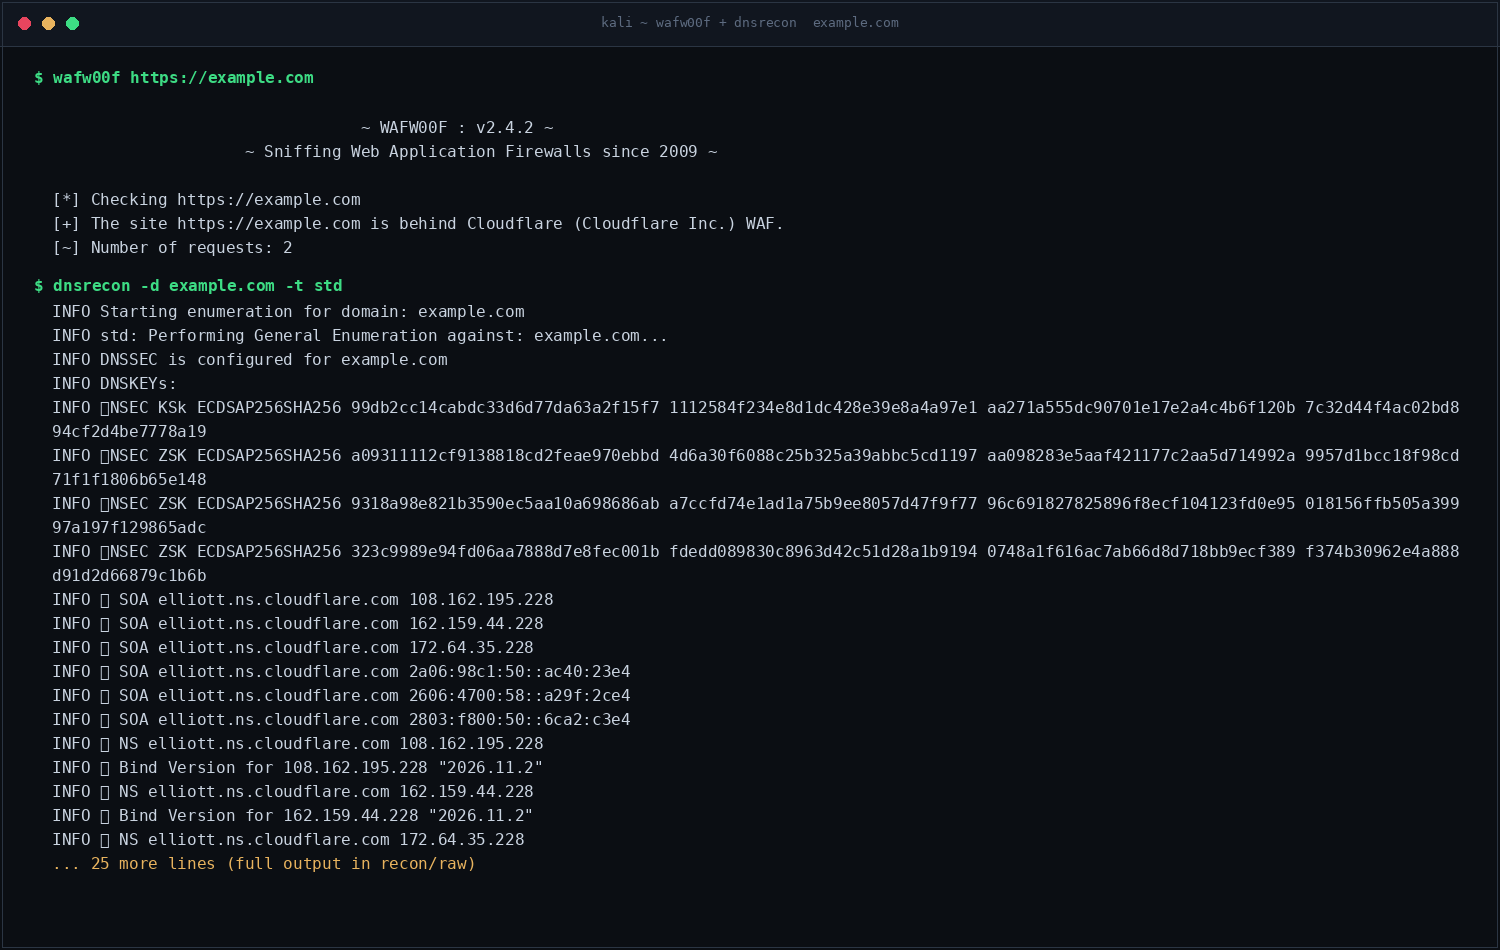
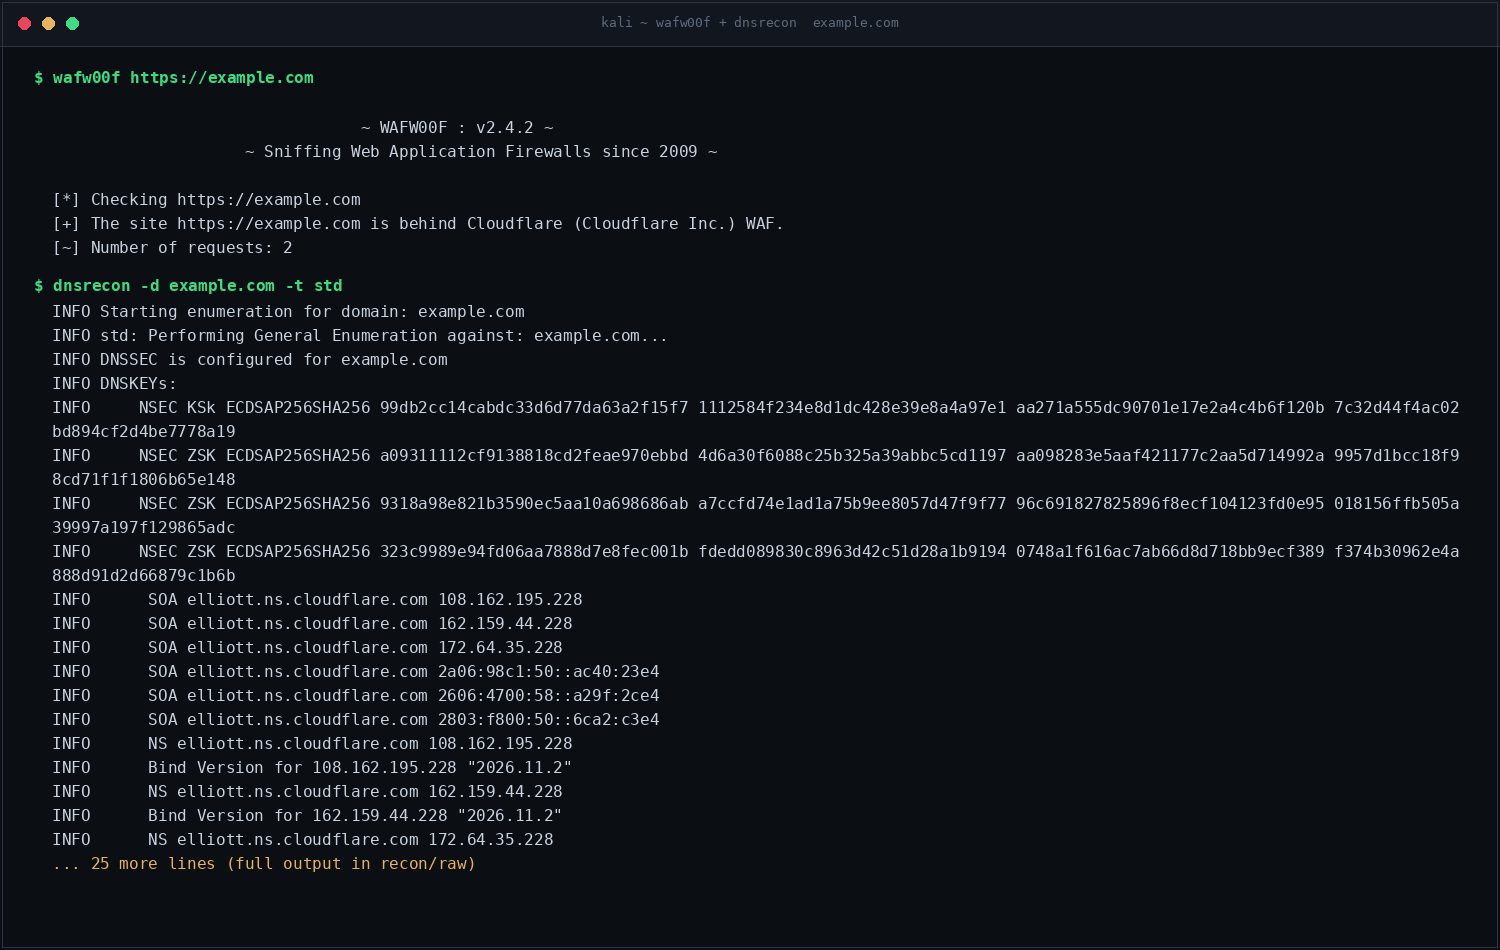
Render tabs as spaces in the evidence screenshots

Changed region(s): [[0.0307, 0.4274, 0.9813, 0.8853]]

diff --git a/tools/render_screenshots.py b/tools/render_screenshots.py
@@ -46,7 +46,9 @@ def lines_of(name):
     f = RAW / name
     if not f.exists():
         return [f"(missing: {name})"]
-    return [ANSI.sub("", ln.rstrip("\n")) for ln in f.read_text(errors="replace").splitlines()]
+    # tabs would render as tofu boxes in a monospace font
+    return [ANSI.sub("", ln.rstrip("\n")).replace("\t", "    ")
+            for ln in f.read_text(errors="replace").splitlines()]
 
 
 def wrap(text, cols):
